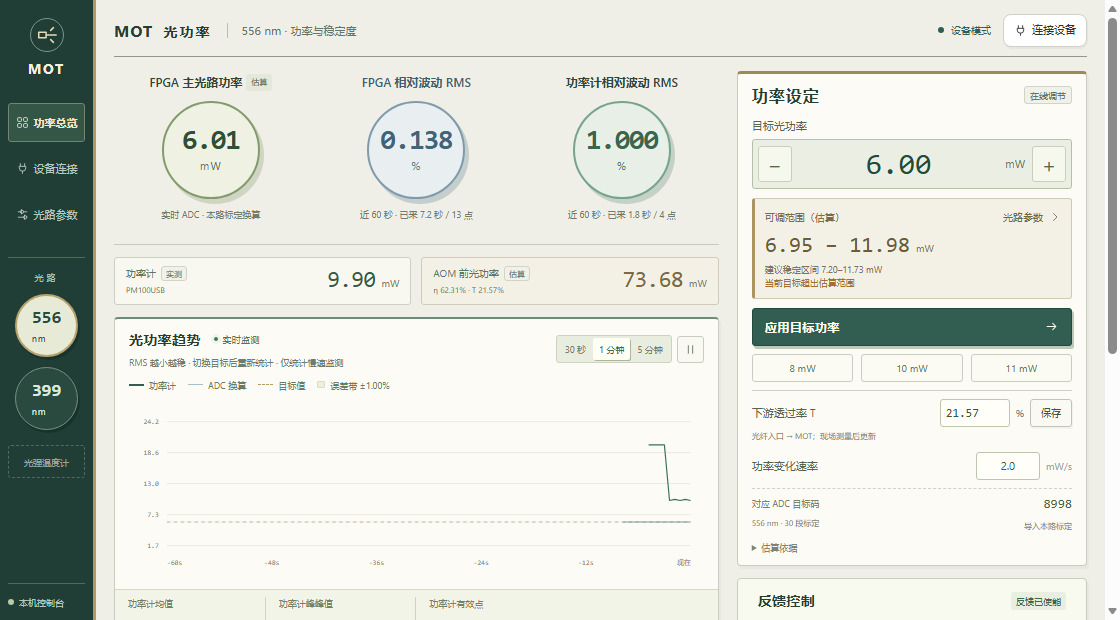
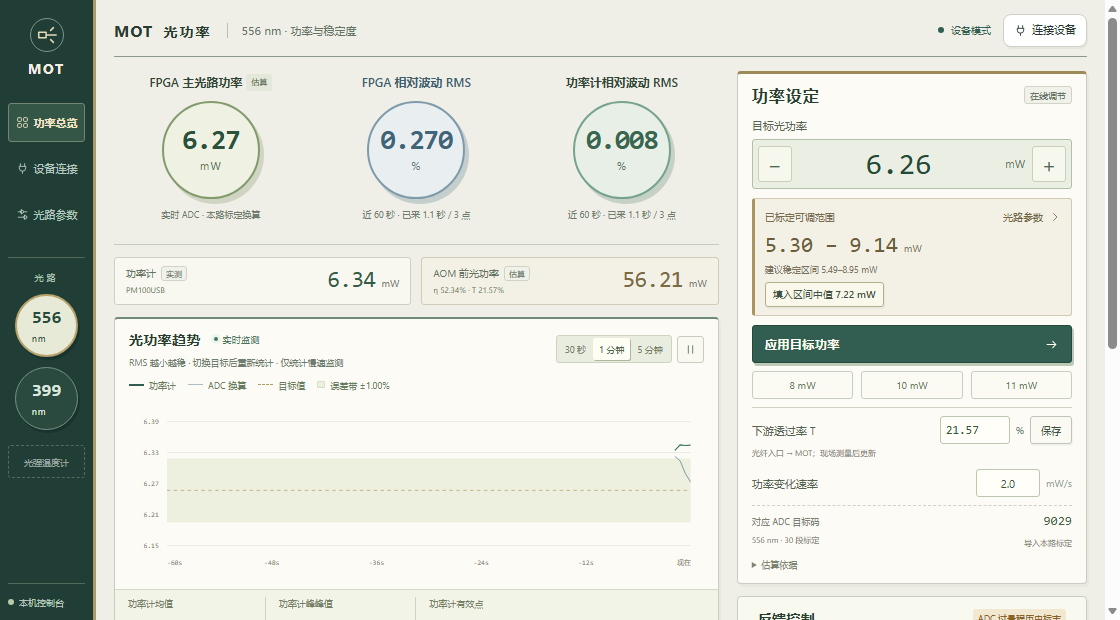
Handle changed FPGA ports and retain labeled range references outside calibration

diff --git a/app.js b/app.js
@@ -12,13 +12,21 @@
     if ([value.efficiency, value.minimum, value.maximum].every(C.finite)) C.estimateRange({ ...value, reference: 10 });
   }
   function makeChannel(id) {
-    let config = defaultConfig(id), calibration = id === '556' ? C.normalizeCalibration(MOT_DEFAULT_CALIBRATION) : null, serial = '';
+    let config = defaultConfig(id), calibration = id === '556' ? C.normalizeCalibration(MOT_DEFAULT_CALIBRATION) : null, serial = '', port = '', rangeReference = null;
     try {
       const saved = JSON.parse(localStorage.getItem(`mot-pid-optics-${id}-v1`) || (id === '556' ? localStorage.getItem('mot556-optics-v1') : null) || 'null');
       if (saved) { validateConfig(saved); config = { ...config, ...saved }; }
       const savedCal = JSON.parse(localStorage.getItem(`mot-pid-calibration-${id}-v1`) || 'null');
       if (savedCal && savedCal.wavelength_nm === Number(id)) calibration = C.normalizeCalibration(savedCal);
       serial = localStorage.getItem(`mot-pid-meter-${id}`) || '';
+      const savedPort = (localStorage.getItem(`mot-pid-port-${id}`) || '').toUpperCase();
+      if (/^COM[1-9][0-9]{0,3}$/.test(savedPort)) port = savedPort;
+    } catch {}
+    try {
+      const savedRange = JSON.parse(localStorage.getItem(`mot-pid-range-${id}-v1`) || 'null');
+      if (savedRange?.channel === id && C.finite(savedRange.time) && savedRange.time <= Date.now() && typeof savedRange.context === 'string') {
+        C.estimateRange({ ...savedRange, margin: config.margin }); rangeReference = savedRange;
+      }
     } catch {}
     // Apply this newly supplied measurement once, including existing browsers.
     // Subsequent edits or an explicit blank survive reloads.
@@ -31,11 +39,12 @@
         }
       } catch {}
     }
-    return { id, config, calibration, target: id === '556' ? 10 : null, draft: id === '556' ? '10.00' : '', rate: '2.0', port: id === '556' ? 'COM8' : '', serial, chosen: false, applied: false, snapshot: null, polling: false, busy: false, history: [], window: 60, paused: false, pauseTime: 0, lastMeter: null, lastAdc: null, error: '', previousConnected: false, statsSince: { power: 0, adc: 0 }, lastTargetCode: null, wasRamping: false };
+    return { id, config, calibration, target: id === '556' ? 10 : null, draft: id === '556' ? '10.00' : '', rate: '2.0', port, serial, chosen: false, applied: false, snapshot: null, polling: false, busy: false, history: [], window: 60, paused: false, pauseTime: 0, lastMeter: null, lastAdc: null, error: '', previousConnected: false, statsSince: { power: 0, adc: 0 }, lastTargetCode: null, wasRamping: false, rangeReference, rangeCandidate: null };
   }
   const channels = { '556': makeChannel('556'), '399': makeChannel('399') };
   let channelId = '556';
   let meterDevices = [], meterScanning = false, meterScanReady = false, meterScanError = '';
+  let portDevices = [], portScanReady = false;
   const current = () => channels[channelId];
   const anyBusy = () => Object.values(channels).some(c => c.busy);
   function toast(message, bad = false) { const el = document.createElement('div'); el.className = 'toast' + (bad ? ' error' : ''); el.innerHTML = icon(bad ? 'info' : 'check') + `<span>${escape(message)}</span>`; $('toast-stack').append(el); setTimeout(() => el.remove(), 4200); }
@@ -81,6 +90,7 @@
       $('target-error').textContent = '';
     } catch (e) { $('code-preview').textContent = '-'; $('target-error').textContent = e.message; }
     all('[data-preset]').forEach(b => b.classList.toggle('selected', Number(b.dataset.preset) === n));
+    renderRange(readings(s).power);
   }
   $('target-input').addEventListener('input', () => { current().chosen = true; current().draft = $('target-input').value; preview(); });
   for (const [id, step] of [['target-minus', -.1], ['target-plus', .1]]) $(id).onclick = () => { $('target-input').value = Math.max(0, Number($('target-input').value || 0) + step).toFixed(2); current().chosen = true; current().draft = $('target-input').value; preview(); };
@@ -112,8 +122,28 @@
   all('.close-dialog').forEach(b => b.onclick = () => b.closest('dialog').close());
   all('dialog').forEach(d => d.onclick = e => { if (e.target === d) { const r = d.getBoundingClientRect(); if (e.clientX < r.left || e.clientX > r.right || e.clientY < r.top || e.clientY > r.bottom) d.close(); } });
   $('nav-overview').onclick = () => window.scrollTo({ top: 0, behavior: 'smooth' });
+  function rememberPort(s) { try { localStorage.setItem(`mot-pid-port-${s.id}`, s.port); } catch {} }
+  function availablePorts(s = current()) {
+    const occupied = Object.values(channels).filter(c => c.id !== s.id && c.snapshot?.fpga?.connected).map(c => c.snapshot.fpga.port);
+    return portDevices.filter(p => !occupied.includes(p.device));
+  }
+  function renderPortOptions() {
+    const s = current(), connected = s.snapshot?.fpga?.connected, eligible = availablePorts(s);
+    if (connected) s.port = s.snapshot.fpga.port;
+    else if (portScanReady && !eligible.some(p => p.device === s.port)) s.port = eligible.length === 1 ? eligible[0].device : '';
+    const choices = [...eligible];
+    if (connected && !choices.some(p => p.device === s.port)) choices.push({ device: s.port, description: '本路已连接' });
+    $('serial-ports').innerHTML = choices.map(p => `<option value="${escape(p.device)}">${escape(p.description)}</option>`).join('');
+    $('serial-port').value = s.port;
+    $('service-state').textContent = connected ? `本机服务就绪 · FPGA 已连接 ${s.port}` : !portDevices.length ? '本机服务就绪 · 未发现串口，请检查 USB 连接' : `本机服务就绪 · 发现 ${portDevices.length} 个串口` + (s.port ? ` · 已选 ${s.port}` : eligible.length ? ' · 请选择 FPGA 串口' : ' · 串口已被另一光路使用');
+  }
+  async function refreshPorts(id = channelId) {
+    const value = await api('/api/ports', undefined, id);
+    if (!Array.isArray(value.ports)) throw Error('本机服务没有返回有效串口列表');
+    portDevices = value.ports; portScanReady = true; renderPortOptions();
+  }
   async function inspectService() {
-    try { const value = await api('/api/ports'); $('serial-ports').innerHTML = value.ports.map(p => `<option value="${escape(p.device)}">${escape(p.description)}</option>`).join(''); $('service-state').textContent = `本机服务就绪 · 发现 ${value.ports.length} 个串口`; }
+    try { await refreshPorts(); }
     catch (e) { $('service-state').textContent = e.message; }
   }
   function rememberMeter(s) { try { localStorage.setItem(`mot-pid-meter-${s.id}`, s.serial); } catch {} }
@@ -145,15 +175,19 @@
   }
   function openConnect() { const s = current(); $('serial-port').value = s.port; renderMeterOptions(); $('connection-error').textContent = ''; $('connection-feedback').textContent = `${channelId} nm · 连接后设置功率计波长，不自动应用目标。`; $('connect-dialog').showModal(); inspectService(); scanMeters(); }
   ['connect-button', 'nav-devices'].forEach(id => $(id).onclick = openConnect); $('refresh-ports').onclick = inspectService;
-  $('serial-port').addEventListener('input', () => { current().port = $('serial-port').value.trim(); });
+  $('serial-port').addEventListener('input', () => { current().port = $('serial-port').value.trim().toUpperCase(); });
   $('refresh-meters').onclick = scanMeters;
   $('meter-serial').addEventListener('change', () => { current().serial = $('meter-serial').value; rememberMeter(current()); render(); });
   async function connect(kind) {
     if (anyBusy()) return; const s = current(), id = channelId;
-    s.port = $('serial-port').value.trim(); s.serial = $('meter-serial').value.trim(); s.busy = true;
+    s.port = $('serial-port').value.trim().toUpperCase(); s.serial = $('meter-serial').value.trim(); s.busy = true;
     $('connection-error').textContent = ''; $('connection-feedback').textContent = '正在连接并读取设备…'; render();
     try {
       const connected = kind === 'fpga' ? s.snapshot?.fpga.connected : s.snapshot?.meter.connected;
+      if (kind === 'fpga' && !connected) {
+        await refreshPorts(id);
+        if (!s.port) throw Error(availablePorts(s).length ? '检测到多个可用串口，请选择 FPGA 对应的串口' : portDevices.length ? '串口已被另一光路使用，请先断开原通道' : '未发现串口，请检查 FPGA 的 USB 连接后刷新');
+      }
       const value = connected ? await api(`/api/disconnect/${kind}`, {}, id) : await api(`/api/connect/${kind}`, kind === 'fpga' ? { port: s.port } : { serial: s.serial }, id);
       accept(value.state, id); $('connection-feedback').textContent = connected ? '设备已断开，相关读数已清空。' : kind === 'fpga' ? `${id} nm FPGA 已连接，未自动修改目标。` : `功率计已连接，${id} nm 已回读。`;
       if (kind === 'meter') { rememberMeter(s); meterDevices = meterDevices.map(d => d.serial === s.serial ? { ...d, connected_channel: connected ? null : id } : d); renderMeterOptions(); }
@@ -176,6 +210,10 @@
       if (!fresh(device) || !fresh(old) || deviceId !== oldId || device.sampled_at - old.sampled_at > 2500 || device.sampled_at < old.sampled_at) s.statsSince[key] = now;
     }
     const meterChanged = !!m.connected !== !!s.snapshot?.meter?.connected || m.identity?.serial !== s.snapshot?.meter?.identity?.serial;
+    if (f.connected && (s.port !== f.port || !s.previousConnected)) {
+      s.port = f.port; rememberPort(s);
+      if (id === channelId) $('serial-port').value = s.port;
+    }
     if (f.connected && !s.previousConnected) {
       if (!s.chosen && s.calibration) { try { s.target = C.toPower(s.calibration, f.setpoint_code); s.draft = s.target.toFixed(2); s.applied = true; if (id === channelId) { $('target-input').value = s.draft; preview(); } } catch {} }
       else s.applied = false;
@@ -196,10 +234,21 @@
   }
   function opticalConfig(s = current()) {
     if (s.id !== '556') return { ...s.config };
+    let coverage = {};
     try {
       if (!fresh(s.snapshot?.fpga)) throw Error('等待 FPGA 实时 DAC 读数');
+      coverage = C.opticsCoverage556(s.snapshot.fpga);
       return { ...s.config, ...C.estimateOptics556(s.snapshot.fpga), automatic: true };
-    } catch (e) { return { ...s.config, efficiency: null, minimum: null, maximum: null, automatic: true, error: e.message }; }
+    } catch (e) { return { ...s.config, ...coverage, efficiency: null, minimum: null, maximum: null, automatic: true, error: e.message }; }
+  }
+  function clearRangeReference(s) {
+    s.rangeReference = null; s.rangeCandidate = null;
+    try { localStorage.removeItem(`mot-pid-range-${s.id}-v1`); } catch {}
+  }
+  function rangeContext(s) {
+    const f = s.snapshot?.fpga, m = s.snapshot?.meter;
+    return JSON.stringify([s.id, f?.port, f?.firmware, f?.out_min, f?.out_max, m?.identity?.serial, s.config.transmission,
+      s.id === '399' ? [s.config.efficiency, s.config.minimum, s.config.maximum] : null]);
   }
   function openParameters() { const s = current(), config = opticalConfig(s); Object.keys(s.config).forEach(k => { const field = $('range-form').elements[k]; field.value = config[k] ?? ''; field.readOnly = s.id === '556' && ['efficiency','minimum','maximum'].includes(k); }); $('range-error').textContent = ''; $('range-dialog').showModal(); }
   $('range-settings').onclick = openParameters; $('nav-parameters').onclick = openParameters;
@@ -210,7 +259,7 @@
       if (transmission !== null && (!C.finite(transmission) || transmission <= 0 || transmission > 100)) throw Error('透过率应大于 0 且不超过 100%，未知可留空');
       const next = { ...s.config, transmission };
       localStorage.setItem(`mot-pid-optics-${s.id}-v1`, JSON.stringify(next));
-      s.config = next; $('transmission-error').textContent = ''; render();
+      s.config = next; clearRangeReference(s); $('transmission-error').textContent = ''; render();
       toast(transmission === null ? '透过率已清空，显示未校正的等效功率' : `${s.id} nm 下游透过率已保存：${fmt(transmission)}%`);
     } catch (e) { $('transmission-error').textContent = e.message; }
   }
@@ -220,7 +269,7 @@
   $('range-form').onsubmit = e => {
     e.preventDefault(); const s = current(), f = e.currentTarget;
     const next = Object.fromEntries(Object.keys(s.config).map(k => [k, !f.elements[k].value.trim() ? null : Number(f.elements[k].value)]));
-    try { validateConfig(next); s.config = next; try { localStorage.setItem(`mot-pid-optics-${channelId}-v1`, JSON.stringify(next)); } catch {} $('transmission-input').value = C.finite(next.transmission) ? fmt(next.transmission) : ''; $('transmission-error').textContent = ''; $('range-dialog').close(); toast(`${channelId} nm 光路参数已保存`); render(); }
+    try { validateConfig(next); s.config = next; clearRangeReference(s); try { localStorage.setItem(`mot-pid-optics-${channelId}-v1`, JSON.stringify(next)); } catch {} $('transmission-input').value = C.finite(next.transmission) ? fmt(next.transmission) : ''; $('transmission-error').textContent = ''; $('range-dialog').close(); toast(`${channelId} nm 光路参数已保存`); render(); }
     catch (err) { $('range-error').textContent = err.message; }
   };
   $('channel-calibration-file').onchange = async event => {
@@ -230,14 +279,26 @@
       if (file.size > 2000000) throw Error('标定文件不能大于 2 MB');
       const input = JSON.parse((await file.text()).replace(/^\uFEFF/, ''));
       if (input.wavelength_nm !== Number(id)) throw Error(`标定文件须声明 wavelength_nm: ${id}，不能跨通道复用`);
-      const calibration = C.normalizeCalibration(input); s.calibration = calibration; s.history = []; s.lastAdc = null; s.lastMeter = null;
+      const calibration = C.normalizeCalibration(input); s.calibration = calibration; s.history = []; s.lastAdc = null; s.lastMeter = null; clearRangeReference(s);
       try { localStorage.setItem(`mot-pid-calibration-${id}-v1`, JSON.stringify(calibration)); } catch {}
       loadControls(); render(); toast(`${id} nm 标定已载入，未修改设备目标`);
     } catch (e) { toast(e.message, true); } finally { event.target.value = ''; }
   };
   function renderRange(power) {
-    const s = current(), config = opticalConfig(s); let range = null;
-    if (C.finite(power) && power > 0) { try { range = C.estimateRange({ ...config, reference: power }); } catch {} }
+    const s = current(), config = opticalConfig(s), f = s.snapshot?.fpga, m = s.snapshot?.meter, context = rangeContext(s);
+    let range = null, historical = false, reason = config.error || '等待功率计与本路效率参数';
+    if (C.finite(power) && power > 0) { try { range = C.estimateRange({ ...config, reference: power }); } catch (e) { reason = config.error || e.message; } }
+    if (range && !f?.ramp) {
+      const time = m.sampled_at;
+      if (s.rangeReference?.time !== time || s.rangeReference?.context !== context) {
+        s.rangeReference = { channel: s.id, context, time, reference: power, efficiency: config.efficiency, minimum: config.minimum, maximum: config.maximum };
+        try { localStorage.setItem(`mot-pid-range-${s.id}-v1`, JSON.stringify(s.rangeReference)); } catch {}
+      }
+    } else if (!range && C.finite(power) && power > 0 && fresh(f) && s.rangeReference?.context === context) {
+      try { range = C.estimateRange({ ...s.rangeReference, margin: s.config.margin }); historical = true; } catch {}
+    }
+    if (!C.finite(power)) reason = '等待功率计读数';
+    else if (power <= 0) reason = '功率计读数需大于 0';
     const hasTransmission = C.finite(config.transmission) && config.transmission > 0 && config.transmission <= 100;
     const equivalent = C.finite(power) && power >= 0 && C.finite(config.efficiency) && config.efficiency > 0 ? power / (config.efficiency / 100) : null;
     const upstream = C.finite(equivalent) ? hasTransmission ? equivalent / (config.transmission / 100) : equivalent : null;
@@ -245,14 +306,35 @@
     $('upstream-tag').textContent = hasTransmission ? '估算' : '未校正';
     $('upstream-metric').textContent = fmt(upstream);
     $('upstream-note').textContent = !C.finite(power) ? '等待功率计读数' : !C.finite(equivalent) ? config.error || '等待衍射效率' : hasTransmission ? `η ${fmt(config.efficiency)}% · T ${fmt(config.transmission)}%` : 'P/η · 未校正下游损耗，实际入射功率需再除以 T';
+    $('range-heading').textContent = historical ? '上次有效范围（参考）' : config.partial ? '已标定可调范围' : '可调范围（估算）';
+    $('range-values').closest('.target-range').dataset.state = historical ? 'reference' : range ? 'live' : 'unavailable';
     $('range-values').innerHTML = range ? `${fmt(range.low)} <span>–</span> ${fmt(range.high)}` : '-';
-    $('range-recommend').textContent = range ? `建议稳定区间 ${fmt(range.recommendedLow)}–${fmt(range.recommendedHigh)} mW` : '建议稳定区间 -';
-    $('range-target-label').textContent = range && C.finite(s.target) ? (s.target < range.low || s.target > range.high ? '当前目标超出估算范围' : '') : '';
+    $('range-recommend').textContent = range ? `${historical ? '参考区间' : '建议稳定区间'} ${fmt(range.recommendedLow)}–${fmt(range.recommendedHigh)} mW` : '尚无有效功率范围';
+    const draft = $('target-input').value.trim(), target = draft ? Number(draft) : s.target;
+    $('range-target-label').textContent = range && C.finite(target) && (target < range.low || target > range.high) ? `输入目标超出${historical ? '参考' : '已标定'}范围` : '';
+    const recordedAt = historical ? new Date(s.rangeReference.time).toLocaleString('zh-CN', { timeZone: 'Asia/Hong_Kong', hour12: false }) : '';
+    let guidance = '';
+    if (!range && config.calibrated === false && C.finite(power)) guidance = config.rf < config.lowRF ? `；请小步提高目标，使 DAC 回到 ${config.lowDac} 以上后重算` : `；需回到 DAC ${config.lowDac}–${config.highDac} 的标定区间`;
+    $('range-status').textContent = historical ? `${reason}；保留 ${recordedAt} 的估算，光路变化后需重新测量。` : range ? '' : reason + guidance;
+    s.rangeCandidate = null;
+    if (range && s.calibration) {
+      const low = Math.ceil(Math.max(range.recommendedLow, s.calibration.points[0].power_mw) * 100), high = Math.floor(Math.min(range.recommendedHigh, s.calibration.points.at(-1).power_mw) * 100);
+      if (low <= high) s.rangeCandidate = Math.round((low + high) / 2) / 100;
+    }
+    $('use-range-target').hidden = !C.finite(s.rangeCandidate);
+    $('use-range-target').disabled = anyBusy();
+    $('use-range-target').textContent = `填入${historical ? '参考' : '区间中'}值 ${fmt(s.rangeCandidate)} mW`;
     $('range-note').textContent = range ? config.automatic ?
       `RF ≈ ${fmt(config.rf)} mVpp · η ≈ ${fmt(config.efficiency)}% · 标定覆盖 DAC ${config.lowDac}–${config.highDac}${config.partial ? '（部分范围，未外推）' : ''}；按当前光路透过率不变估算。` :
-      `按实测功率和手填效率估算；改变 RF 后须更新效率。` : config.error || '等待功率计与本路效率参数';
+      `按实测功率和手填效率估算；改变 RF 后须更新效率。` : reason;
+    if (historical) $('range-note').textContent = `使用上次有效功率及效率估算，不对当前 RF 外推。记录时间 ${recordedAt}。填入参考值只修改输入框，点击应用后才下发。`;
     if (config.automatic) $('efficiency-detail').innerHTML = C.finite(config.efficiency) ? `${fmt(config.efficiency)}% <small>DAC → RF → 实测曲线</small>` : `<small>${escape(config.error || '等待有效 DAC 读数')}</small>`;
   }
+  $('use-range-target').onclick = () => {
+    const s = current(); if (!C.finite(s.rangeCandidate) || anyBusy()) return;
+    $('target-input').value = fmt(s.rangeCandidate); s.draft = $('target-input').value; s.chosen = true; preview();
+    toast(`已填入 ${s.draft} mW；点击“应用目标功率”后生效`);
+  };
   function statusText(status) { const a = [[1, '丢光'], [2, 'ADC 过量程历史标志'], [4, '输出饱和'], [8, '积分到限'], [16, '反馈冻结'], [32, 'ADC 时钟停止']].filter(([b]) => status & b).map(([, s]) => s); return a.length ? a.join(' / ') : '正常'; }
   function render() {
     const s = current(), config = s.config, cal = s.calibration, r = readings(s), f = r.f, m = r.m, busy = anyBusy();
@@ -284,6 +366,7 @@
     $('fpga-dot').classList.toggle('connected', r.fpgaLive); $('pm-dot').classList.toggle('connected', r.meterLive);
     $('fpga-strip').textContent = f?.connected ? f.port + (r.fpgaLive ? ' · 已连接' : ' · 数据过期') : '未连接'; $('pm-strip').textContent = m?.connected ? (m.identity?.model || 'Thorlabs') + (r.meterLive ? ` · ${channelId} nm` : ' · 等待读数') : '未连接'; $('last-update').textContent = r.meterLive || r.fpgaLive ? '数据更新中' : '尚无设备读数';
     $('connect-fpga').textContent = f?.connected ? '断开 FPGA' : '连接 FPGA'; $('connect-meter').textContent = m?.connected ? '断开功率计' : '连接功率计'; $('connect-fpga').disabled = busy; $('connect-meter').disabled = busy || (!m?.connected && (!s.serial || meterScanning));
+    $('serial-port').disabled = busy || !!f?.connected; $('refresh-ports').disabled = busy;
     $('meter-serial').disabled = busy || meterScanning || !!m?.connected; $('refresh-meters').disabled = busy || meterScanning;
     renderStability(r); renderRange(r.power); if (!s.paused) renderChart();
   }

diff --git a/index.html b/index.html
@@ -74,7 +74,7 @@
     </div>
 
     <div class="control-column">
-     <article class="card setpoint-card"><div class="card-heading compact"><h2>功率设定</h2><span class="tiny-tag">在线调节</span></div><form id="setpoint-form"><label for="target-input">目标光功率</label><div class="power-input-wrap"><button type="button" class="step-button" id="target-minus" aria-label="目标减少 0.1 mW">−</button><input id="target-input" type="number" min="0" max="45.4915" step="0.01" value="10.00" required aria-describedby="target-error"><span>mW</span><button type="button" class="step-button" id="target-plus" aria-label="目标增加 0.1 mW">+</button></div><div class="target-range"><div class="target-range-heading"><span>可调范围（估算）</span><button type="button" class="text-button accent" id="range-settings">光路参数 <svg><use href="#i-chevron"/></svg></button></div><div class="target-range-value"><strong id="range-values">-</strong><span>mW</span></div><small id="range-recommend">建议稳定区间 -</small><small id="range-target-label">等待功率计数据</small></div><p class="field-error" id="target-error" role="alert"></p><button type="submit" class="button primary full-width" id="apply-target">应用目标功率 <svg><use href="#i-arrow"/></svg></button><div class="preset-row"><button type="button" data-preset="8">8 mW</button><button type="button" class="selected" data-preset="10">10 mW</button><button type="button" data-preset="11">11 mW</button></div><div class="transmission-setting"><label for="transmission-input">下游透过率 T</label><div class="transmission-controls"><input id="transmission-input" type="text" inputmode="decimal" placeholder="未知" aria-describedby="transmission-help transmission-error"><span>%</span><button type="button" class="button" id="save-transmission">保存</button></div><small id="transmission-help">光纤入口 → MOT；现场测量后更新</small><small id="transmission-error" role="alert"></small></div><div class="field-line"><label for="ramp-rate">功率变化速率</label><div><input id="ramp-rate" type="number" min="0.01" max="100" step="0.01" value="2.0" required><span>mW/s</span></div></div><div class="setpoint-preview"><span>对应 ADC 目标码</span><strong id="code-preview">-</strong></div><div class="calibration-inline"><span id="channel-calibration-status">556 nm · 30 段标定</span><label for="channel-calibration-file" class="text-button accent">导入本路标定</label><input id="channel-calibration-file" type="file" accept=".json" hidden></div><details class="range-explanation"><summary>估算依据</summary><small id="range-note">等待本路效率参数</small></details></form><p class="setpoint-hint" id="apply-hint">在线更新目标，无需重新生成 bitstream。</p></article>
+     <article class="card setpoint-card"><div class="card-heading compact"><h2>功率设定</h2><span class="tiny-tag">在线调节</span></div><form id="setpoint-form"><label for="target-input">目标光功率</label><div class="power-input-wrap"><button type="button" class="step-button" id="target-minus" aria-label="目标减少 0.1 mW">−</button><input id="target-input" type="number" min="0" max="45.4915" step="0.01" value="10.00" required aria-describedby="target-error"><span>mW</span><button type="button" class="step-button" id="target-plus" aria-label="目标增加 0.1 mW">+</button></div><div class="target-range"><div class="target-range-heading"><span id="range-heading">可调范围（估算）</span><button type="button" class="text-button accent" id="range-settings">光路参数 <svg><use href="#i-chevron"/></svg></button></div><div class="target-range-value"><strong id="range-values">-</strong><span>mW</span></div><small id="range-recommend">建议稳定区间 -</small><small id="range-target-label">等待功率计数据</small><small id="range-status" role="status"></small><button type="button" class="button range-recovery" id="use-range-target" hidden>填入参考值</button></div><p class="field-error" id="target-error" role="alert"></p><button type="submit" class="button primary full-width" id="apply-target">应用目标功率 <svg><use href="#i-arrow"/></svg></button><div class="preset-row"><button type="button" data-preset="8">8 mW</button><button type="button" class="selected" data-preset="10">10 mW</button><button type="button" data-preset="11">11 mW</button></div><div class="transmission-setting"><label for="transmission-input">下游透过率 T</label><div class="transmission-controls"><input id="transmission-input" type="text" inputmode="decimal" placeholder="未知" aria-describedby="transmission-help transmission-error"><span>%</span><button type="button" class="button" id="save-transmission">保存</button></div><small id="transmission-help">光纤入口 → MOT；现场测量后更新</small><small id="transmission-error" role="alert"></small></div><div class="field-line"><label for="ramp-rate">功率变化速率</label><div><input id="ramp-rate" type="number" min="0.01" max="100" step="0.01" value="2.0" required><span>mW/s</span></div></div><div class="setpoint-preview"><span>对应 ADC 目标码</span><strong id="code-preview">-</strong></div><div class="calibration-inline"><span id="channel-calibration-status">556 nm · 30 段标定</span><label for="channel-calibration-file" class="text-button accent">导入本路标定</label><input id="channel-calibration-file" type="file" accept=".json" hidden></div><details class="range-explanation"><summary>估算依据</summary><small id="range-note">等待本路效率参数</small></details></form><p class="setpoint-hint" id="apply-hint">在线更新目标，无需重新生成 bitstream。</p></article>
 
      <article class="card loop-card"><div class="card-heading compact"><h2>反馈控制</h2><span class="mini-status" id="loop-status">未连接</span></div><div class="toggle-row"><div><strong>PI 闭环</strong><small>修正剩余功率误差</small></div><button class="toggle on" id="pi-toggle" role="switch" aria-checked="true" aria-label="PI 闭环开关"><span></span></button></div><div class="loop-separator"></div><div class="detail-row"><span>控制器位置</span><strong>FPGA</strong></div><div class="detail-row"><span>功率计用途</span><strong>监测 / 慢速校准</strong></div><div class="detail-row"><span>当前双程效率</span><strong id="efficiency-detail">75.42% <small>参考值</small></strong></div><button class="button quiet full-width" id="stop-loop"><span class="square-stop"></span>停用 PI 闭环</button><p class="stop-hint">停用 PI 不等于关闭 RF 或关光。</p></article>
 
@@ -88,7 +88,7 @@
  </main>
 </div>
 
-<dialog id="connect-dialog"><div class="dialog-heading"><div><span class="eyebrow">DEVICE CONNECTION</span><h2 id="connect-dialog-title">连接 556 nm 设备</h2></div><button class="icon-button close-dialog" aria-label="关闭"><svg><use href="#i-x"/></svg></button></div><p class="dialog-description">选择本路设备；功率计自动识别型号并设置本路波长。</p><div id="hardware-fields"><div class="service-state" id="service-state">正在检查本机服务…</div><div class="connection-form"><label>FPGA 串口<div class="input-with-button"><input id="serial-port" value="COM8" list="serial-ports" placeholder="COM8" aria-label="FPGA 串口"><datalist id="serial-ports"></datalist><button class="button" id="refresh-ports">刷新</button></div></label><button class="button primary" id="connect-fpga">连接 FPGA</button></div><p class="subtle small-text">UART 115200 · 8N1 · 支持 A623 / A624 测量固件及 5030 分段标定固件。</p><div class="connection-form"><label for="meter-serial">光功率计<div class="input-with-button"><select id="meter-serial" aria-describedby="meter-scan-state"><option value="">请扫描功率计</option></select><button type="button" class="button" id="refresh-meters">扫描</button></div></label><button class="button" id="connect-meter">连接功率计</button></div><p class="subtle small-text" id="meter-scan-state" role="status">接入 USB 后扫描功率计</p><p class="subtle small-text"><span id="meter-wavelength-note">支持 PM100D / PM100USB；连接后自动设置为 556 nm。</span></p><p id="connection-error" class="field-error" role="alert"></p></div><div class="dialog-footer"><span id="connection-feedback">功率计按本路波长测量，不自动应用目标。</span><button class="button close-dialog">完成</button></div></dialog>
+<dialog id="connect-dialog"><div class="dialog-heading"><div><span class="eyebrow">DEVICE CONNECTION</span><h2 id="connect-dialog-title">连接 556 nm 设备</h2></div><button class="icon-button close-dialog" aria-label="关闭"><svg><use href="#i-x"/></svg></button></div><p class="dialog-description">选择本路设备；功率计自动识别型号并设置本路波长。</p><div id="hardware-fields"><div class="service-state" id="service-state">正在检查本机服务…</div><div class="connection-form"><label>FPGA 串口<div class="input-with-button"><input id="serial-port" value="" list="serial-ports" placeholder="刷新后选择串口" aria-label="FPGA 串口" autocomplete="off"><datalist id="serial-ports"></datalist><button class="button" id="refresh-ports">刷新</button></div></label><button class="button primary" id="connect-fpga">连接 FPGA</button></div><p class="subtle small-text">UART 115200 · 8N1 · 支持 A623 / A624 测量固件及 5030 分段标定固件。</p><div class="connection-form"><label for="meter-serial">光功率计<div class="input-with-button"><select id="meter-serial" aria-describedby="meter-scan-state"><option value="">请扫描功率计</option></select><button type="button" class="button" id="refresh-meters">扫描</button></div></label><button class="button" id="connect-meter">连接功率计</button></div><p class="subtle small-text" id="meter-scan-state" role="status">接入 USB 后扫描功率计</p><p class="subtle small-text"><span id="meter-wavelength-note">支持 PM100D / PM100USB；连接后自动设置为 556 nm。</span></p><p id="connection-error" class="field-error" role="alert"></p></div><div class="dialog-footer"><span id="connection-feedback">功率计按本路波长测量，不自动应用目标。</span><button class="button close-dialog">完成</button></div></dialog>
 
 <dialog id="range-dialog"><div class="dialog-heading"><div><span class="eyebrow">OPTICAL PATH PARAMETERS</span><h2 id="range-dialog-title">556 nm · AOM 功率与范围估算</h2></div><button class="icon-button close-dialog" aria-label="关闭"><svg><use href="#i-x"/></svg></button></div><p class="dialog-description">功率取自连接的功率计。请填写光路参数。556 nm 效率与上下限自动由 DAC、已确认的 VCO 映射及实测效率曲线换算；399 nm 手动填写。未知透过率留空。</p><form id="range-form"><div class="form-grid"><label>当前双程效率 η / %<input name="efficiency" type="number" min="0.01" max="100" step="any" placeholder="未知则留空"></label><label>下游透过率 T / %<input name="transmission" type="number" min="0.01" max="100" step="any" placeholder="未知则留空"></label><label>最小双程效率 / %<input name="minimum" type="number" min="0.01" max="100" step="any" placeholder="未知则留空"></label><label>最大双程效率 / %<input name="maximum" type="number" min="0.01" max="100" step="any" placeholder="未知则留空"></label><label>每侧预留跨度 / %<input name="margin" type="number" min="0" max="49" step="any" required></label><label>误差带 / %<input name="tolerance" type="number" min="0.01" max="20" step="any" required></label></div><div class="info-box"><svg><use href="#i-info"/></svg><p>AOM 前功率 = 功率计读数 ÷ (η × T)。理论上下限 = 功率计读数 × 最小或最大效率 ÷ η。仅当功率计位于 AOM 出口、没有下游损耗时，T 才可填 100%。</p></div><p class="field-error" id="range-error" role="alert"></p><div class="dialog-footer"><span>无功率计数据时，估算结果显示“-”</span><button type="submit" class="button primary">保存参数</button></div></form></dialog>
 

diff --git a/core.js b/core.js
@@ -68,7 +68,7 @@
 
   // DDS GUI amplitude is a peak parameter; measured peak = setting * 0.77.
   // RF Vpp uses the factor 2 exactly once. No extrapolation of optical data.
-  function estimateOptics556(f) {
+  function opticsCoverage556(f) {
     if (!f || ![f.dac_code, f.out_min, f.out_max].every(finite) ||
         f.out_min < 0 || f.out_max > 16383 || f.out_min >= f.out_max ||
         f.dac_code < f.out_min || f.dac_code > f.out_max) throw Error('等待有效 DAC 与限幅读回');
@@ -79,14 +79,18 @@
     const lowDac = Math.max(f.out_min, calibratedMin), highDac = Math.min(f.out_max, calibratedMax);
     if (lowDac >= highDac) throw Error('DAC 可调区间不在效率标定覆盖范围内');
     const rf = rfAt(f.dac_code), lowRF = rfAt(lowDac), highRF = rfAt(highDac);
-    if (rf < efficiency556[0].rf || rf > efficiency556.at(-1).rf) throw Error(`当前 RF ≈ ${rf.toFixed(1)} mVpp，超出效率标定 300–550 mVpp`);
+    return { rf, lowDac, highDac, lowRF, highRF, calibrated: rf >= efficiency556[0].rf && rf <= efficiency556.at(-1).rf,
+      partial: lowDac !== f.out_min || highDac !== f.out_max };
+  }
+  function estimateOptics556(f) {
+    const coverage = opticsCoverage556(f), { rf, lowRF, highRF } = coverage;
+    if (!coverage.calibrated) throw Error(`当前 RF ≈ ${rf.toFixed(1)} mVpp，超出效率标定 300–550 mVpp`);
     const efficiency = interpolate(efficiency556, rf, 'rf', 'eta');
     const eta = [interpolate(efficiency556, lowRF, 'rf', 'eta'), interpolate(efficiency556, highRF, 'rf', 'eta'),
       ...efficiency556.filter(p => p.rf > lowRF && p.rf < highRF).map(p => p.eta)];
-    return { rf, efficiency, minimum: Math.min(...eta), maximum: Math.max(...eta), lowDac, highDac,
-      partial: lowDac !== f.out_min || highDac !== f.out_max };
+    return { ...coverage, efficiency, minimum: Math.min(...eta), maximum: Math.max(...eta) };
   }
-  const api = { estimateOptics556, finite, normalizeCalibration, interpolate, toCode, toPower, estimateRange, ramp, stats, windowStats, parseCalibration };
+  const api = { opticsCoverage556, estimateOptics556, finite, normalizeCalibration, interpolate, toCode, toPower, estimateRange, ramp, stats, windowStats, parseCalibration };
   if (typeof module !== 'undefined' && module.exports) module.exports = api;
   root.MotCore = api;
 })(typeof window !== 'undefined' ? window : globalThis);

diff --git a/styles.css b/styles.css
@@ -198,6 +198,11 @@ input,select{color:var(--ink)}
 .target-range-value strong{font:22px Consolas,monospace;letter-spacing:0}
 .target-range-value>span{color:#817860}
 .target-range small{color:#7d745e;font-size:9px;line-height:1.5}
+.target-range[data-state="reference"]{background:#f5eddb;border-color:#bea06a}
+#range-status{display:block;margin-top:4px;line-height:1.5;color:#82633b}
+#range-status:empty{display:none}
+.target-range .range-recovery{margin-top:6px;min-height:25px;padding:4px 7px;font-size:10px;background:#faf7eb;border-color:#b4ad8e}
+.range-recovery[hidden]{display:none}
 .setpoint-card .primary{font-size:12px;min-height:38px;margin-top:9px;padding:8px 12px;font-weight:600;letter-spacing:.5px}
 .preset-row button{border:1px solid #c7cebd;border-radius:3px;background:#fbfbf3;color:#697960}
 .preset-row button.selected,.preset-row button:hover{background:#e6ecda;border-color:#93a57f;color:#3c5d37}
